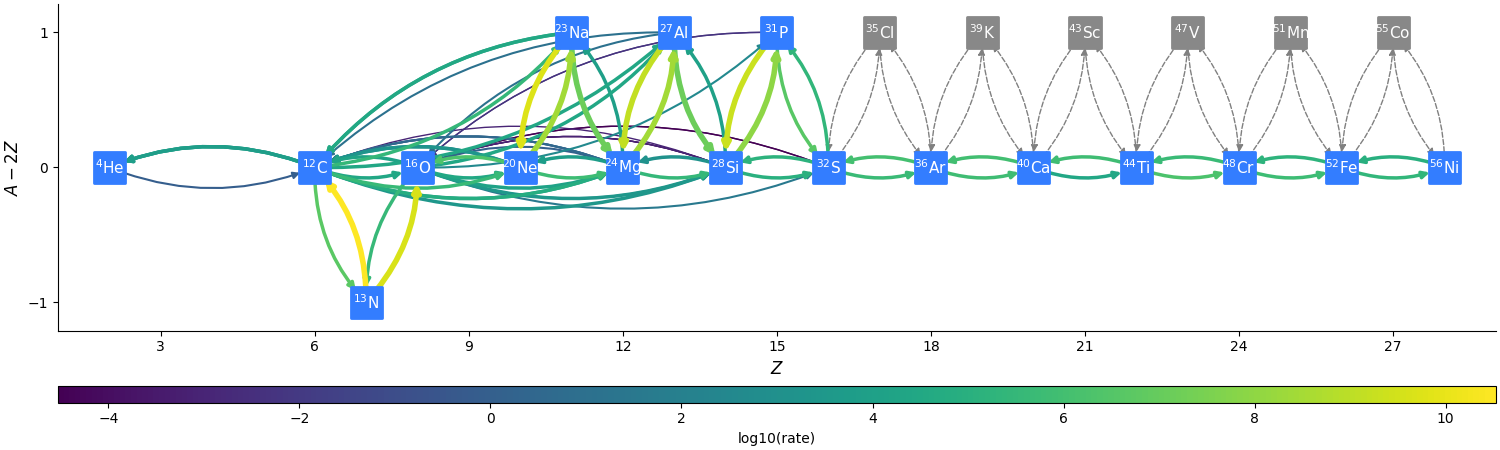
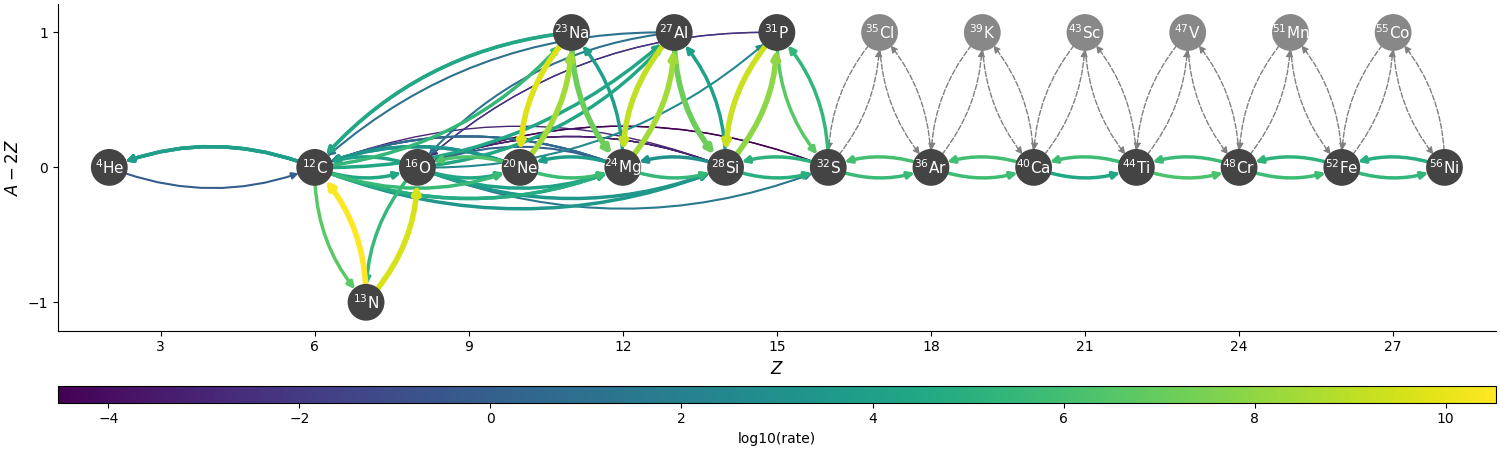
update

diff --git a/networks/he-burn/ase/ase.py b/networks/he-burn/ase/ase.py
@@ -98,8 +98,8 @@ def doit():
     net.plot(rho, T, comp, outfile="ase.png",
              rotated=True, hide_xalpha=True, curved_edges=True,
              size=(1500, 450),
-             node_size=500, node_font_size=11, node_color="#337dff", node_shape="s",
-             Z_range=(1,29))
+             node_size=600, node_font_size=11,
+             Z_range=(1, 29))
 
     net.write_network()
 
